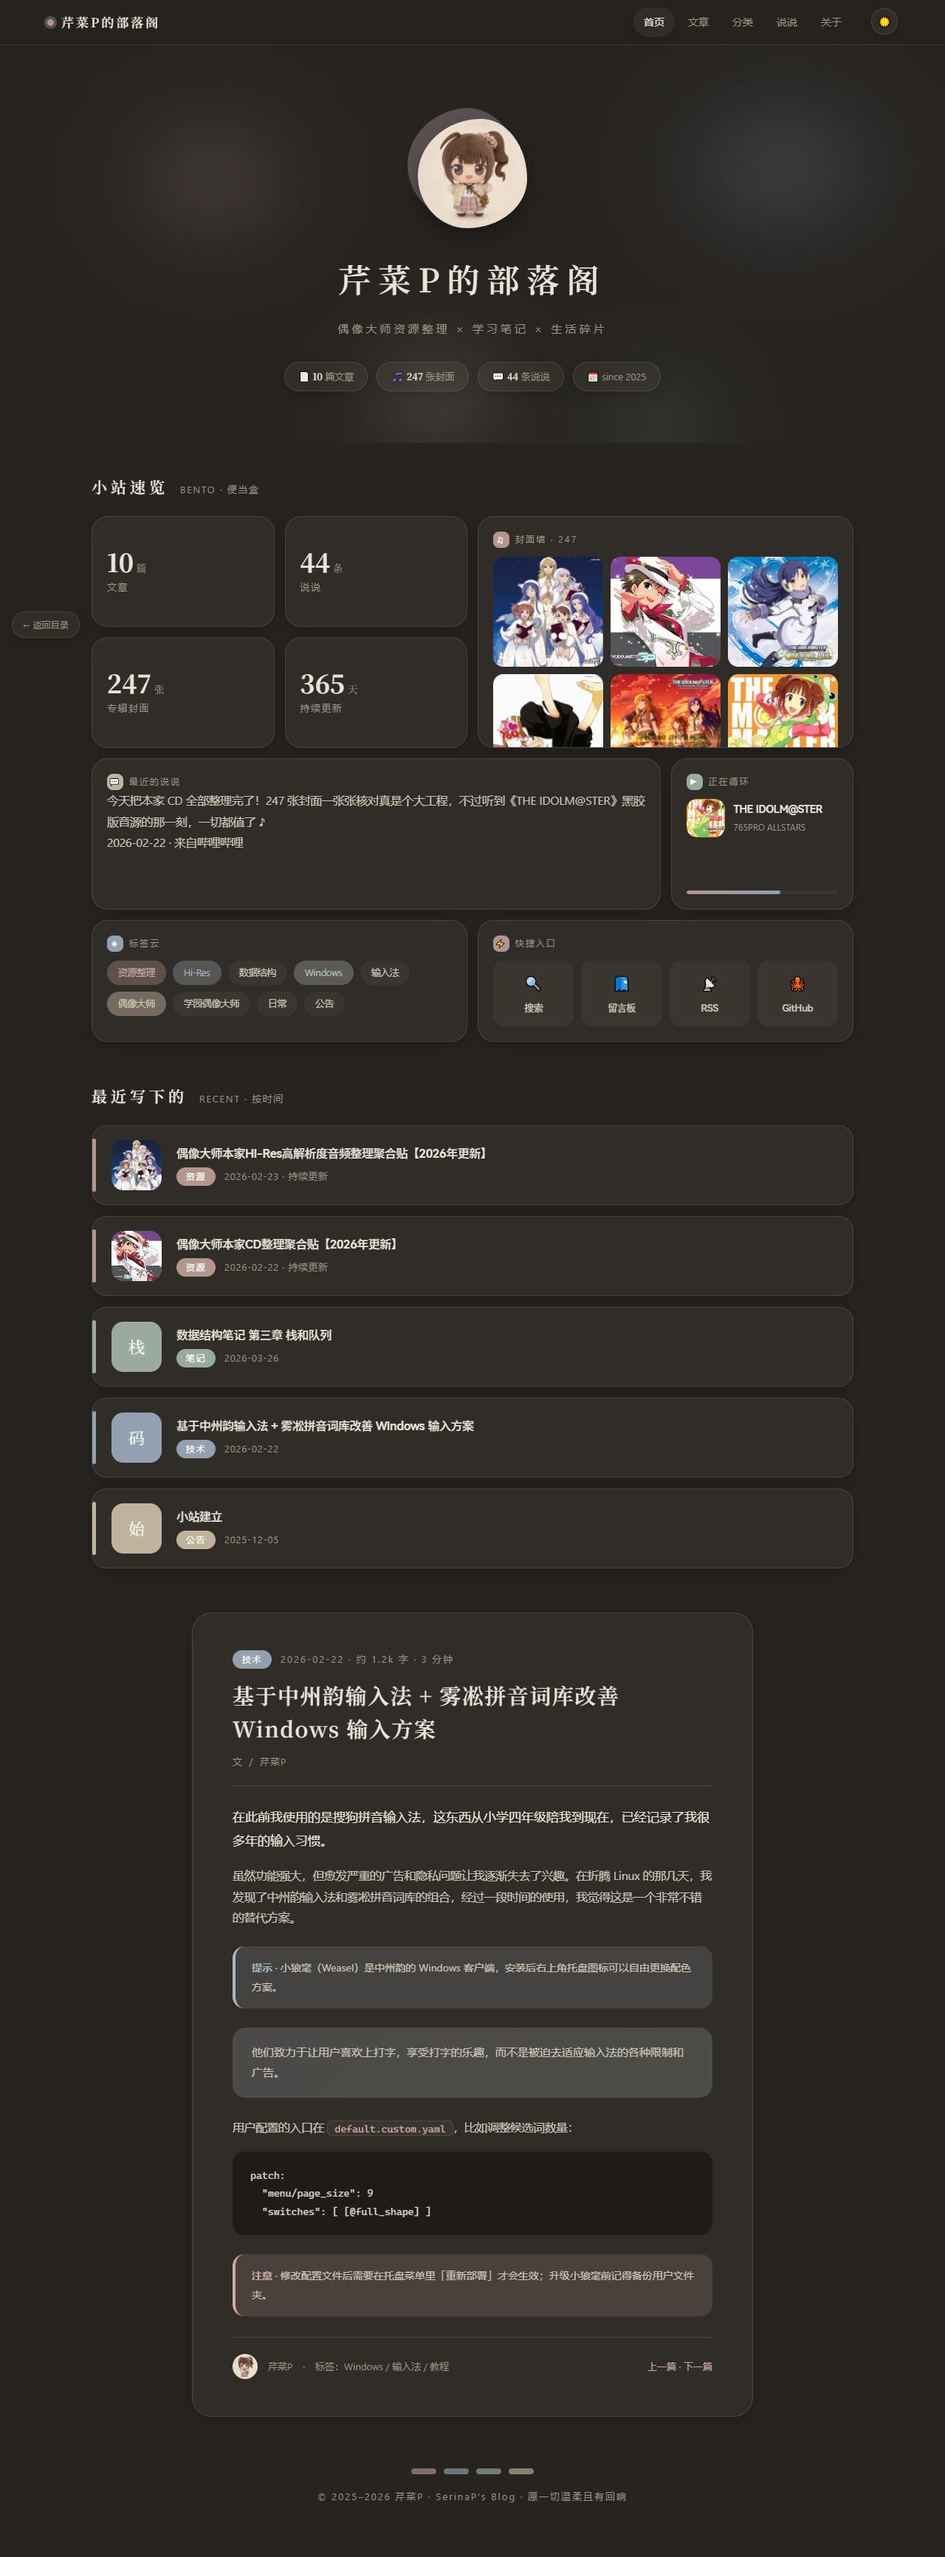
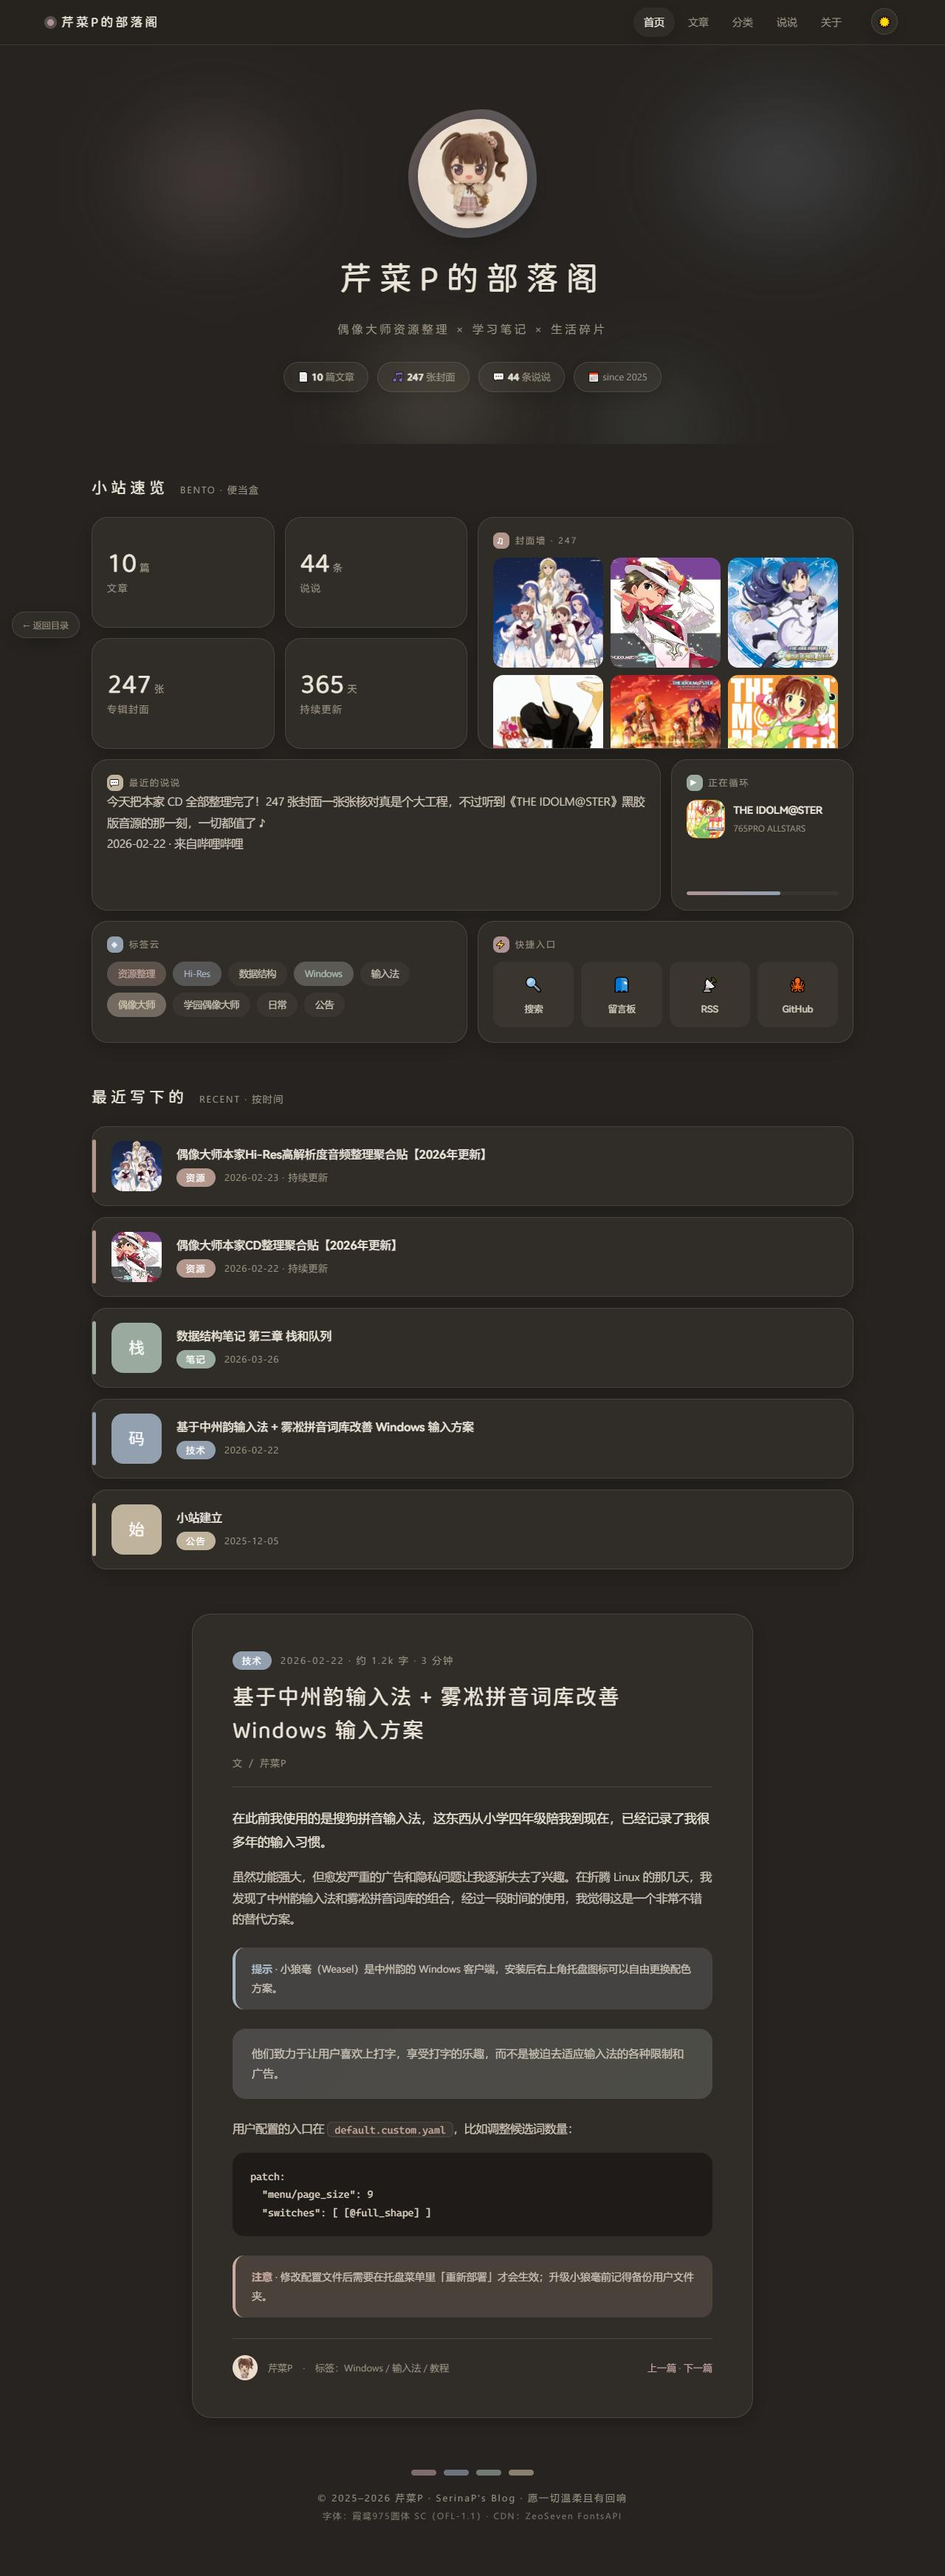
fix(设计探索): 合成方案迭代
- 标题换霞鹜975圆体SC（ZeoSeven CDN 实装）
- 修正头像 blob 对齐；按经典莫兰迪色卡微调 wash 色；暗色晕染增强

diff --git a/design-demos/16-synthesis.html b/design-demos/16-synthesis.html
@@ -4,24 +4,23 @@
 <meta charset="UTF-8">
 <meta name="viewport" content="width=device-width, initial-scale=1.0">
 <title>16 · 合成方案「雾粉手帖」— 13+09+07 融合预览</title>
-<link rel="preconnect" href="https://fonts.googleapis.com">
-<link href="https://fonts.googleapis.com/css2?family=Noto+Serif+SC:wght@400;600;700&display=swap" rel="stylesheet">
+<link rel="stylesheet" href="https://fontsapi.zeoseven.com/184/main/result.css">
 <style>
   * { margin: 0; padding: 0; box-sizing: border-box; }
   :root {
     --bg: #EDEAE4; --surface: #FAF8F4; --surface-2: #F3F0E9;
     --ink: #4A443C; --body: #5C564D; --sub: #8F887D;
     --line: rgba(93,84,72,.13);
-    --pink: #CBB3B5; --pink-deep: #A9807E;
-    --mist: #AEB6C2; --mist-deep: #7F8A9B;
-    --sage: #B3BFB4; --sage-deep: #7E9184;
+    --pink: #CBB3B5; --pink-deep: #9E6E6B;
+    --mist: #A9B4C0; --mist-deep: #7F8A9B;
+    --sage: #AFC0B1; --sage-deep: #7E9184;
     --clay: #C2A8A0; --clay-deep: #9C7B72;
     --sand: #D6CBB8; --sand-deep: #A5947A;
     --code-bg: #4A443C; --code-ink: #F1EBE1;
     --nav-bg: rgba(237,234,228,.82);
     --shadow: 0 6px 24px rgba(120,105,90,.1);
     --shadow-lift: 0 14px 34px rgba(120,105,90,.16);
-    --serif: "Noto Serif SC", "Source Han Serif SC", "Songti SC", serif;
+    --serif: "LXGW 975 Yuan SC 400W", "Yuanti SC", "Segoe UI", "Microsoft YaHei", sans-serif;
     --sans: "Segoe UI", "Microsoft YaHei", "PingFang SC", system-ui, sans-serif;
   }
   :root.dark {
@@ -49,7 +48,7 @@
     backdrop-filter: saturate(160%) blur(18px); -webkit-backdrop-filter: saturate(160%) blur(18px);
     border-bottom: 1px solid var(--line); }
   .nav-in { max-width: 1200px; margin: 0 auto; padding: 0 24px; height: 60px; display: flex; align-items: center; gap: 26px; }
-  .logo { font-family: var(--serif); font-weight: 600; font-size: 17px; letter-spacing: 3px; color: var(--ink); display: flex; align-items: center; gap: 10px; }
+  .logo { font-family: var(--serif); font-weight: normal; font-size: 17px; letter-spacing: 3px; color: var(--ink); display: flex; align-items: center; gap: 10px; }
   .logo i { width: 9px; height: 9px; border-radius: 50%; background: var(--pink); box-shadow: 0 0 0 4px rgba(203,179,181,.3); }
   .nav-links { margin-left: auto; display: flex; gap: 4px; }
   .nav-links a { color: var(--sub); font-size: 14px; padding: 7px 14px; border-radius: 999px; }
@@ -68,13 +67,13 @@
   .w4 { width: 260px; height: 220px; right: 24%; bottom: -60px; background: radial-gradient(closest-side, var(--sage), transparent 72%); opacity: .35; animation: drift 24s ease-in-out infinite alternate-reverse; }
   @keyframes drift { to { transform: translate(46px, 26px) scale(1.07); } }
   @media (prefers-reduced-motion: reduce) { .hero .wash { animation: none; } }
-  :root.dark .hero .wash { opacity: .3; }
+  :root.dark .hero .wash { opacity: .34; }
   .blob-wrap { position: relative; width: 148px; height: 148px; margin: 0 auto 28px; }
-  .blob-wrap::before { content: ""; position: absolute; inset: -14px 10px 10px -14px; border-radius: 55% 45% 48% 52% / 50% 56% 44% 50%;
-    background: linear-gradient(135deg, var(--pink), var(--mist)); opacity: .4; transform: rotate(-6deg); }
+  .blob-wrap::before { content: ""; position: absolute; inset: -13px; border-radius: 58% 42% 55% 45% / 52% 55% 45% 48%;
+    background: linear-gradient(135deg, var(--pink), var(--mist)); opacity: .45; }
   .blob-wrap img { position: relative; width: 100%; height: 100%; object-fit: cover;
     border-radius: 58% 42% 55% 45% / 52% 55% 45% 48%; box-shadow: var(--shadow-lift); }
-  .hero h1 { font-size: clamp(32px, 5vw, 44px); font-weight: 600; letter-spacing: 10px; }
+  .hero h1 { font-size: clamp(32px, 5vw, 44px); font-weight: normal; letter-spacing: 10px; }
   .hero .sub { margin-top: 14px; color: var(--sub); letter-spacing: 4px; font-size: 15px; }
   .hero .stats { display: flex; justify-content: center; gap: 12px; margin-top: 30px; flex-wrap: wrap; }
   .chip { background: var(--surface); border: 1px solid var(--line); border-radius: 999px; padding: 7px 18px;
@@ -83,7 +82,7 @@
 
   /* ── 便当盒信息区（Bento） ── */
   .sec-head { display: flex; align-items: baseline; gap: 16px; margin: 40px 0 20px; }
-  .sec-head h2 { font-size: 21px; font-weight: 600; letter-spacing: 5px; }
+  .sec-head h2 { font-size: 21px; font-weight: normal; letter-spacing: 5px; }
   .sec-head span { color: var(--sub); font-size: 12.5px; letter-spacing: 2px; }
   .bento { display: grid; gap: 14px; grid-template-columns: repeat(4, 1fr);
     grid-template-rows: 150px 150px 205px 165px auto;
@@ -98,7 +97,7 @@
   .label { font-size: 11.5px; letter-spacing: 2.5px; color: var(--sub); display: flex; align-items: center; gap: 8px; }
   .label .ico { width: 22px; height: 22px; border-radius: 8px; display: inline-flex; align-items: center; justify-content: center; font-size: 11px; color: #fff; }
   .stat { justify-content: center; gap: 2px; }
-  .stat .v { font-family: var(--serif); font-size: 34px; font-weight: 700; color: var(--ink); line-height: 1.2; }
+  .stat .v { font-family: var(--serif); font-size: 34px; font-weight: normal; color: var(--ink); line-height: 1.2; }
   .stat .v small { font-size: 14px; font-weight: 400; color: var(--sub); }
   .stat .k { font-size: 12.5px; color: var(--sub); letter-spacing: 2px; }
   .covers { display: grid; grid-template-columns: repeat(3, 1fr); gap: 10px; flex: 1; margin-top: 12px; }
@@ -143,7 +142,7 @@
     border-radius: 26px; padding: 50px 54px; box-shadow: var(--shadow); }
   @media (max-width: 640px) { .article { padding: 30px 24px; } }
   .article .kick { display: flex; gap: 12px; align-items: center; font-size: 13px; color: var(--sub); letter-spacing: 2px; }
-  .article h2 { font-size: 29px; font-weight: 600; letter-spacing: 1.5px; line-height: 1.55; margin: 14px 0 10px; }
+  .article h2 { font-size: 29px; font-weight: normal; letter-spacing: 1.5px; line-height: 1.55; margin: 14px 0 10px; }
   .article .credit { font-size: 13px; color: var(--sub); letter-spacing: 1px; padding-bottom: 20px; margin-bottom: 26px; border-bottom: 1px solid var(--line); }
   .article p { margin-bottom: 18px; }
   .article p.lead { font-size: 17px; color: var(--ink); }
@@ -291,7 +290,8 @@
 
 <footer>
   <div class="washline"><i style="background:var(--pink)"></i><i style="background:var(--mist)"></i><i style="background:var(--sage)"></i><i style="background:var(--sand)"></i></div>
-  © 2025–2026 芹菜P · SerinaP's Blog · 愿一切温柔且有回响
+  © 2025–2026 芹菜P · SerinaP's Blog · 愿一切温柔且有回响<br>
+  <span style="font-size:11.5px;opacity:.75">字体：霞鹜975圆体 SC（OFL-1.1）· CDN：ZeoSeven FontsAPI</span>
 </footer>
 
 <script>
